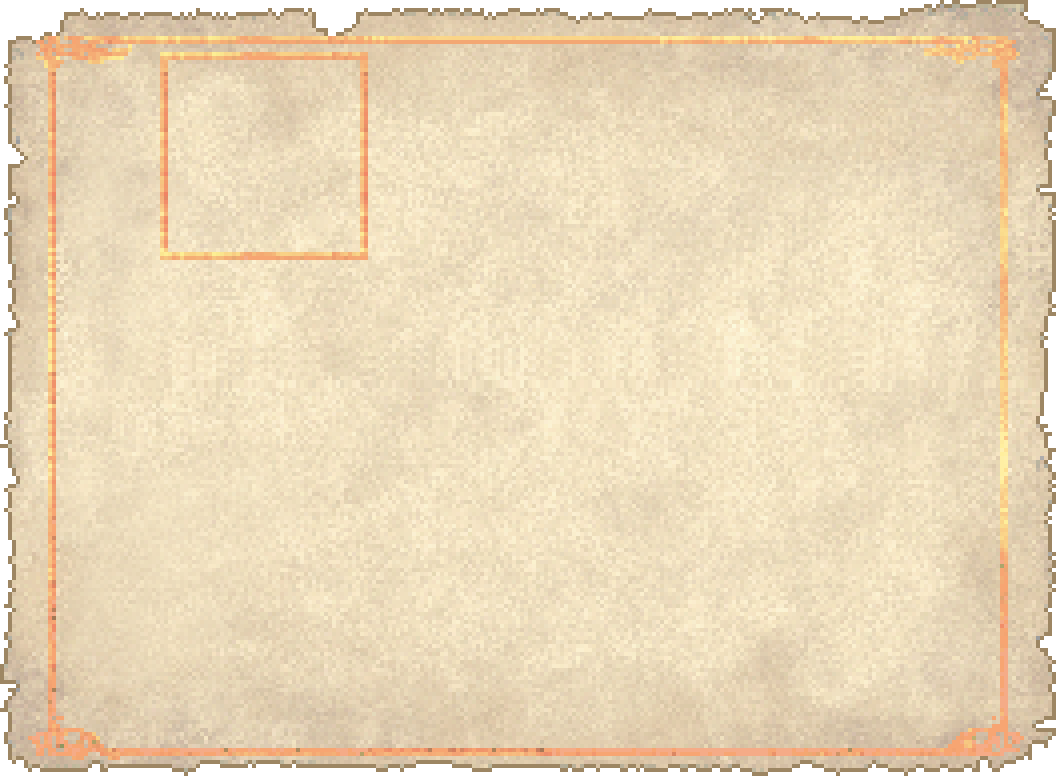
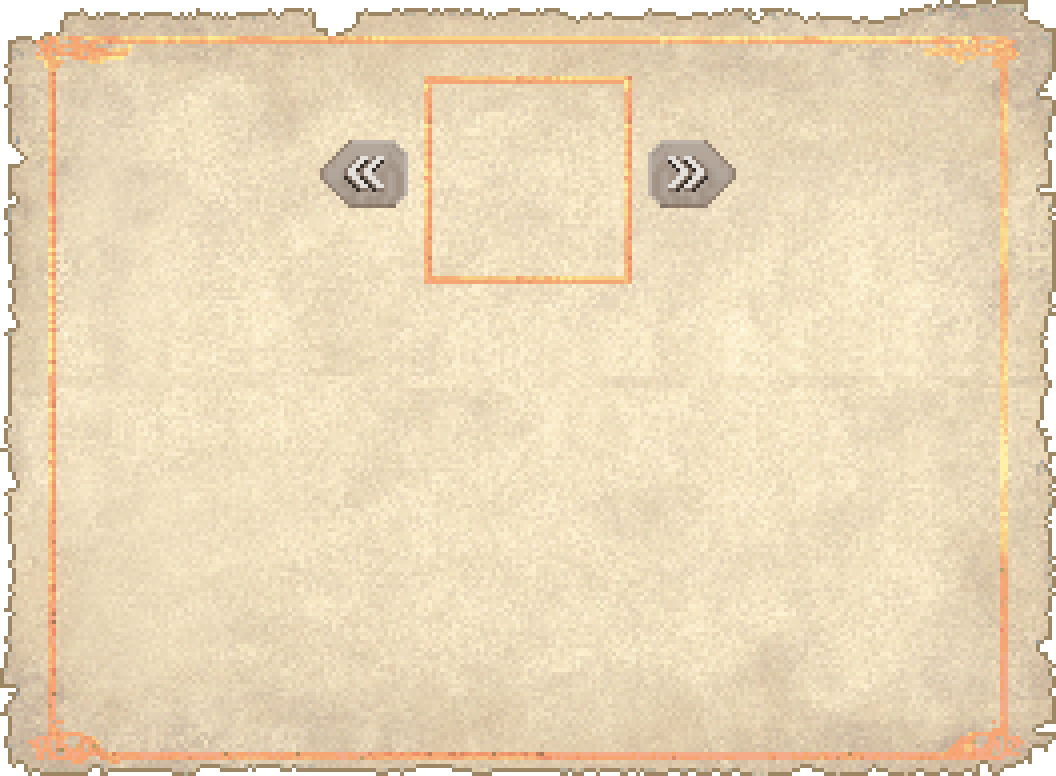
finish login and register page

diff --git a/web/css/pixel_reg.css b/web/css/pixel_reg.css
@@ -13,8 +13,8 @@ button {
     position: absolute;
     width: 192px;
     height: 192px;
-    top: 60px;
-    left: 168px;
+    top: 84px;
+    left: 432px;
 }
 
 .reg_box .female_icon {
@@ -22,15 +22,15 @@ button {
     position: absolute;
     width: 192px;
     height: 192px;
-    top: 60px;
-    left: 168px;
+    top: 84px;
+    left: 432px;
 }
 
 .reg_content {
     width: 640px;
     position: absolute;
-    left: 156px;
-    top: 268px;
+    left: 216px;
+    top: 304px;
 }
 
 .reg_box {
@@ -58,7 +58,7 @@ button {
     width: 640px;
     height: 80px;
     padding: 4px 0;
-    text-align: right;
+    text-align: center;
     text-align-last: auto;
     display: block;
     vertical-align: middle;
@@ -109,8 +109,8 @@ button {
     position: absolute;
     width: 88px;
     height: 68px;
-    left: 64px;
-    top: 122px;
+    left: 320px;
+    top: 140px;
 }
 
 .reg_box .next_button {
@@ -119,8 +119,8 @@ button {
     position: absolute;
     width: 88px;
     height: 68px;
-    left: 376px;
-    top: 122px;
+    left: 648px;
+    top: 140px;
 }
 
 .reg_box .male_button {
@@ -129,8 +129,8 @@ button {
     position: absolute;
     width: 52px;
     height: 52px;
-    left: 56px;
-    top: 68px;
+    left: 356px;
+    top: 220px;
 }
 
 .reg_box .female_button {
@@ -139,8 +139,8 @@ button {
     position: absolute;
     width: 52px;
     height: 52px;
-    left: 108px;
-    top: 68px;
+    left: 648px;
+    top: 220px;
 }
 
 .reg_box .reg_button {
@@ -155,4 +155,13 @@ button {
     display: inline-block;
     cursor: pointer;
     vertical-align: top;
+}
+.reg_box span {
+    background: url('../images/hint.png');
+    background-size: 100%;
+    width: 400px;
+    text-align-last: justify;
+    padding: 18px 100px 10px;
+    display: inline-block;
+    vertical-align: middle;
 }

diff --git a/src/controller/UserController.java b/src/controller/UserController.java
@@ -50,11 +50,9 @@ public class UserController {
 
     @RequestMapping(value = "/register.action", method = RequestMethod.GET)
     public String toRegister(Model model) {
-        List<Integer> l = new ArrayList<>();
-        for (int i = 1; i <= 50; i++) {
-            l.add(i);
-        }
-        model.addAttribute("icon_list", l);
+        addIconList(model);
+        model.addAttribute("icon_num",0);
+        model.addAttribute("sex",false);
         return "register";
     }
 
@@ -62,6 +60,9 @@ public class UserController {
     public String register(String username, String password, String nickname, boolean sex, int iconId, Model model) {
         User user = userService.getUser(username);
         if (user != null) {
+            addIconList(model);
+            model.addAttribute("icon_num",iconId);
+            model.addAttribute("sex",sex);
             model.addAttribute("msg", "该用户名已经被注册！");
             return "register";
         }
@@ -73,6 +74,13 @@ public class UserController {
         model.addAttribute("msg", "注册成功！");
         model.addAttribute("username", username);
         return "login";
+    }
+    public void addIconList(Model model){
+        List<Integer> l = new ArrayList<>();
+        for (int i = 1; i <= 50; i++) {
+            l.add(i);
+        }
+        model.addAttribute("icon_list", l);
     }
 }
 

diff --git a/src/dao/FollowRelationDao.java b/src/dao/FollowRelationDao.java
@@ -4,8 +4,8 @@ import org.springframework.stereotype.Repository;
 import pojo.FollowRelation;
 @Repository
 public interface FollowRelationDao {
-    FollowRelation getFollowRelation(@Param("commitId") int commitId);
+    FollowRelation getFollowFromRelation(@Param("followFromId") int followFromId);
+    int getFollowToRelation(@Param("followToId") int followToId);
     int addFollowRelation(FollowRelation commit);
-    int updateFollowRelation(FollowRelation commit);
-    int deleteFollowRelation(@Param("commitId") int commitId);
+    int deleteFollowRelation(FollowRelation commit);
 }
